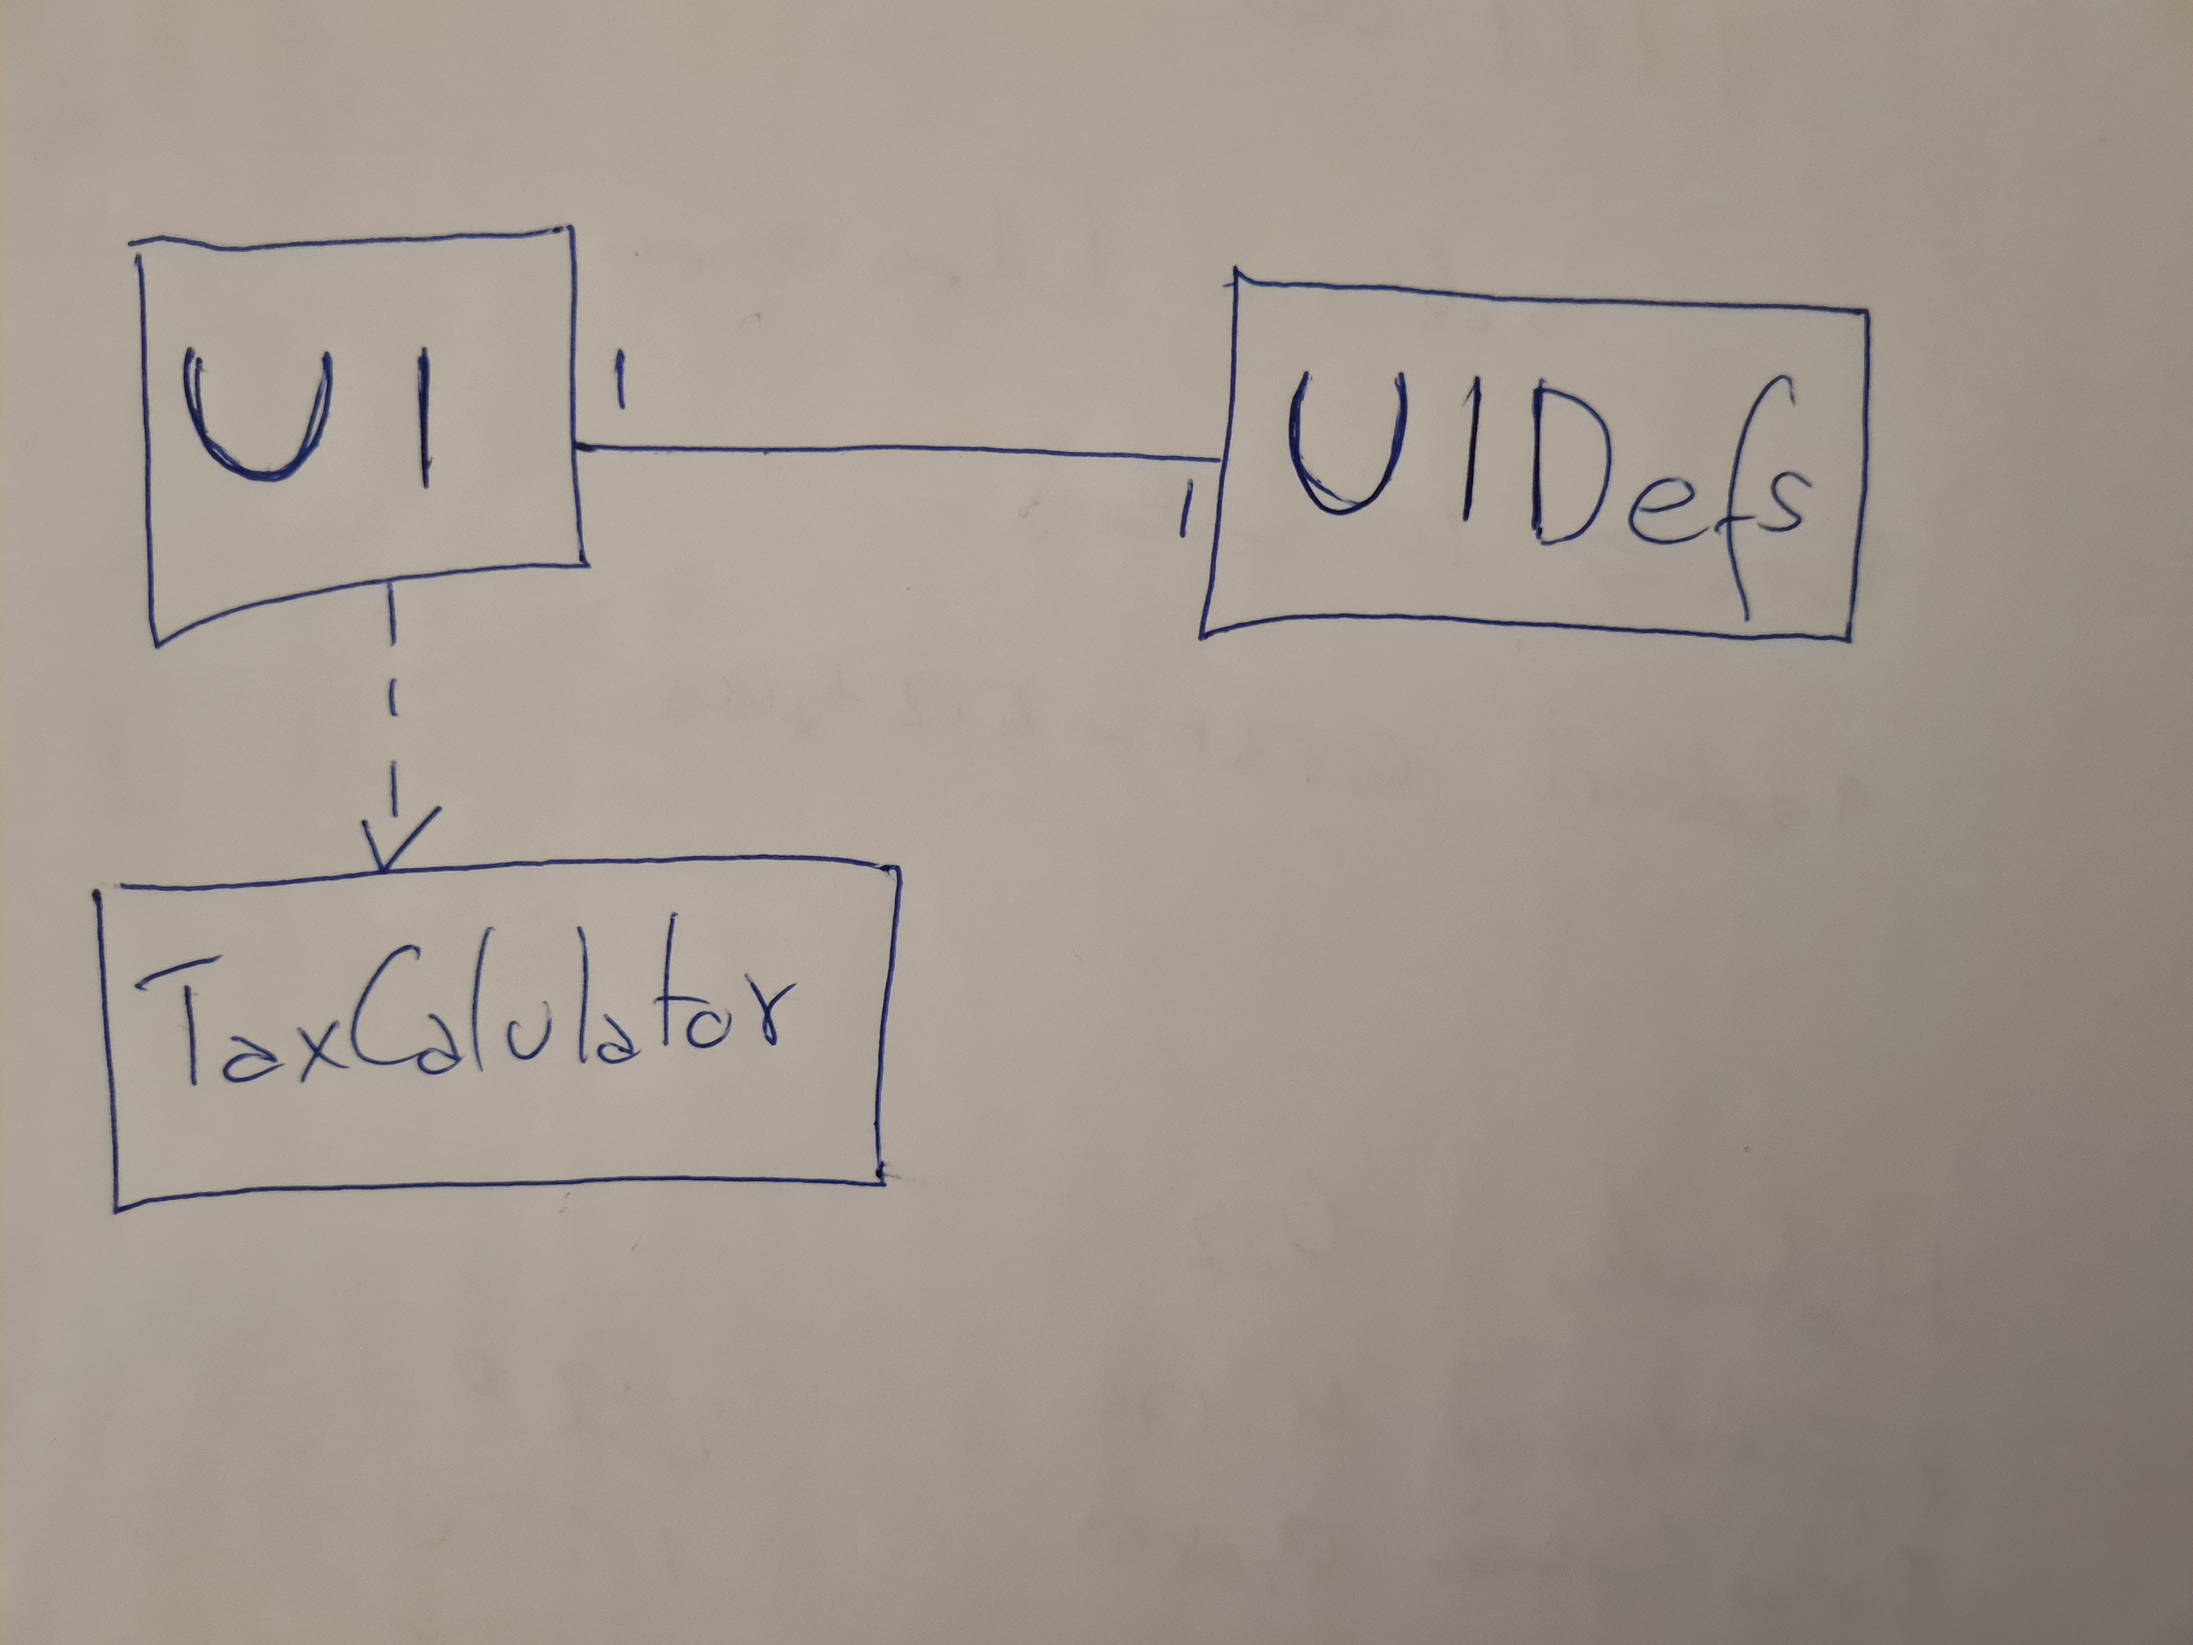
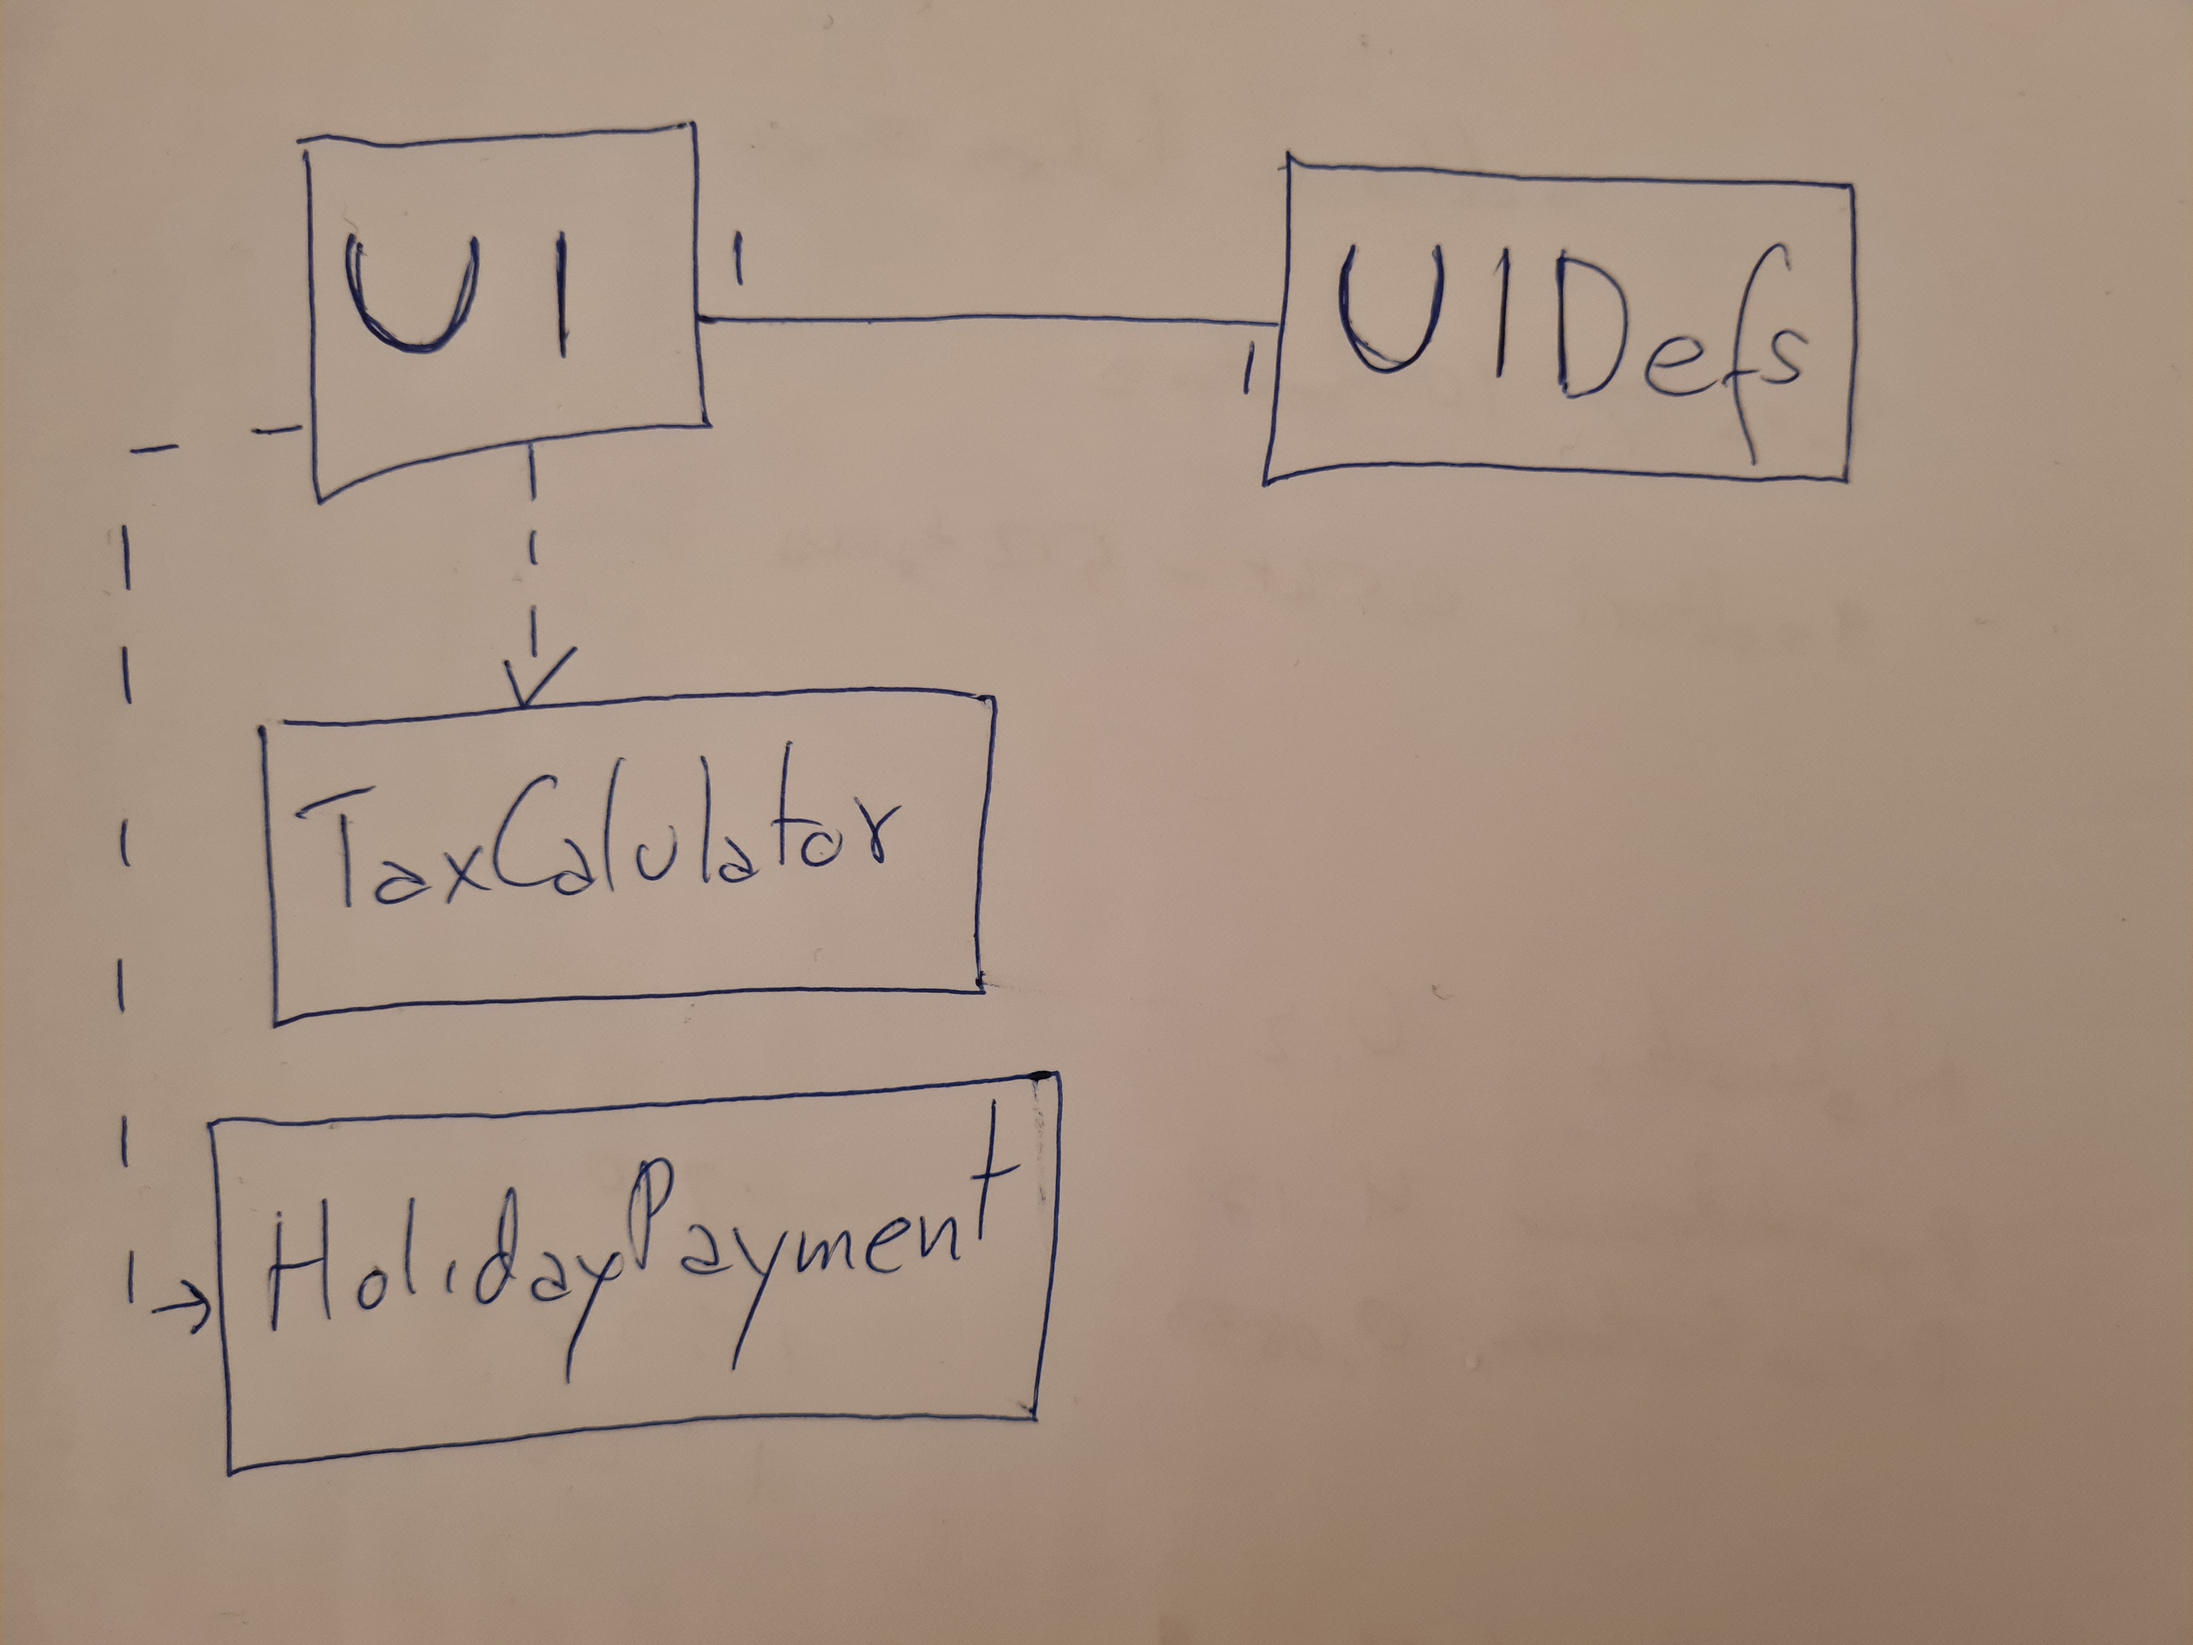
HolidayPayment luokka ja muita pieniä viilauksia

diff --git a/SalaryTool/src/calculations/holiday_payment.py b/SalaryTool/src/calculations/holiday_payment.py
@@ -1,0 +1,25 @@
+
+class HolidayPayment:
+
+    def __init__(self, u_x):
+        self.holidays = u_x.holidays                    # user input
+        self.monthly_salary = u_x.monthly_salary
+        self.paid_holiday_days = None
+        self.days_withdrawn_from_payment = None
+        self.holiday_payment = None
+        self.daily_salary = None
+
+    def holiday_payment_days(self):
+        self.paid_holiday_days = self.holidays - (self.holidays//6)  # saturdays withdrawn from days
+        self.days_withdrawn_from_payment = self.holidays//6            # how many days were didacted
+
+    def monthly_salary_to_daily(self):
+        self.daily_salary = self.monthly_salary/22                   # TES dependent, needs checking
+
+    def calculate_holiday_money(self):
+        self.holiday_payment_days()
+        self.monthly_salary_to_daily()
+        self.holiday_payment = (self.paid_holiday_days * self.daily_salary) * 0.5 
+        print("holiday money", self.holiday_payment)
+
+    

diff --git a/SalaryTool/src/index.py b/SalaryTool/src/index.py
@@ -1,4 +1,5 @@
 from calculations.tax_calculation import TaxCalculator
+from calculations.holiday_payment import HolidayPayment
 from ui.ui import UI
 
 
@@ -8,6 +9,13 @@ def main():
 
     u_x = UI()
 
+    holiday_money = HolidayPayment(u_x)
+
+#    holiday_money.holiday_payment_days()
+
+    holiday_money.calculate_holiday_money()
+
+#    print("look at tat")
     print(u_x.tax_percentage)
 #    print(ux.monthly_salary, " monthly salary finds its way here")
 

diff --git a/SalaryTool/dokumentaatio/tyoaikakirjanpito.md b/SalaryTool/dokumentaatio/tyoaikakirjanpito.md
@@ -7,4 +7,5 @@
 |26.11.21|14:00 - 17:00	 |Ui:n funktiot eritelty omaan luokkaan                         |3:00|
 |27.11.21|12:00 - 18:00  |Virheiden paikallistamista, ui:n ja tarkistus logiikan viilausta |6:00|
 |28.11.21|08:00 - 14:00  |Ui sääntöjen hiomista                                         |6:00|
-|        |               |Tunnit yhteensä 						|30:10|
+|30.11.21|19:00 - 22:00  |Tax calculation class, dokumentation				|3:00
+|        |               |Tunnit yhteensä 						|33:10|
